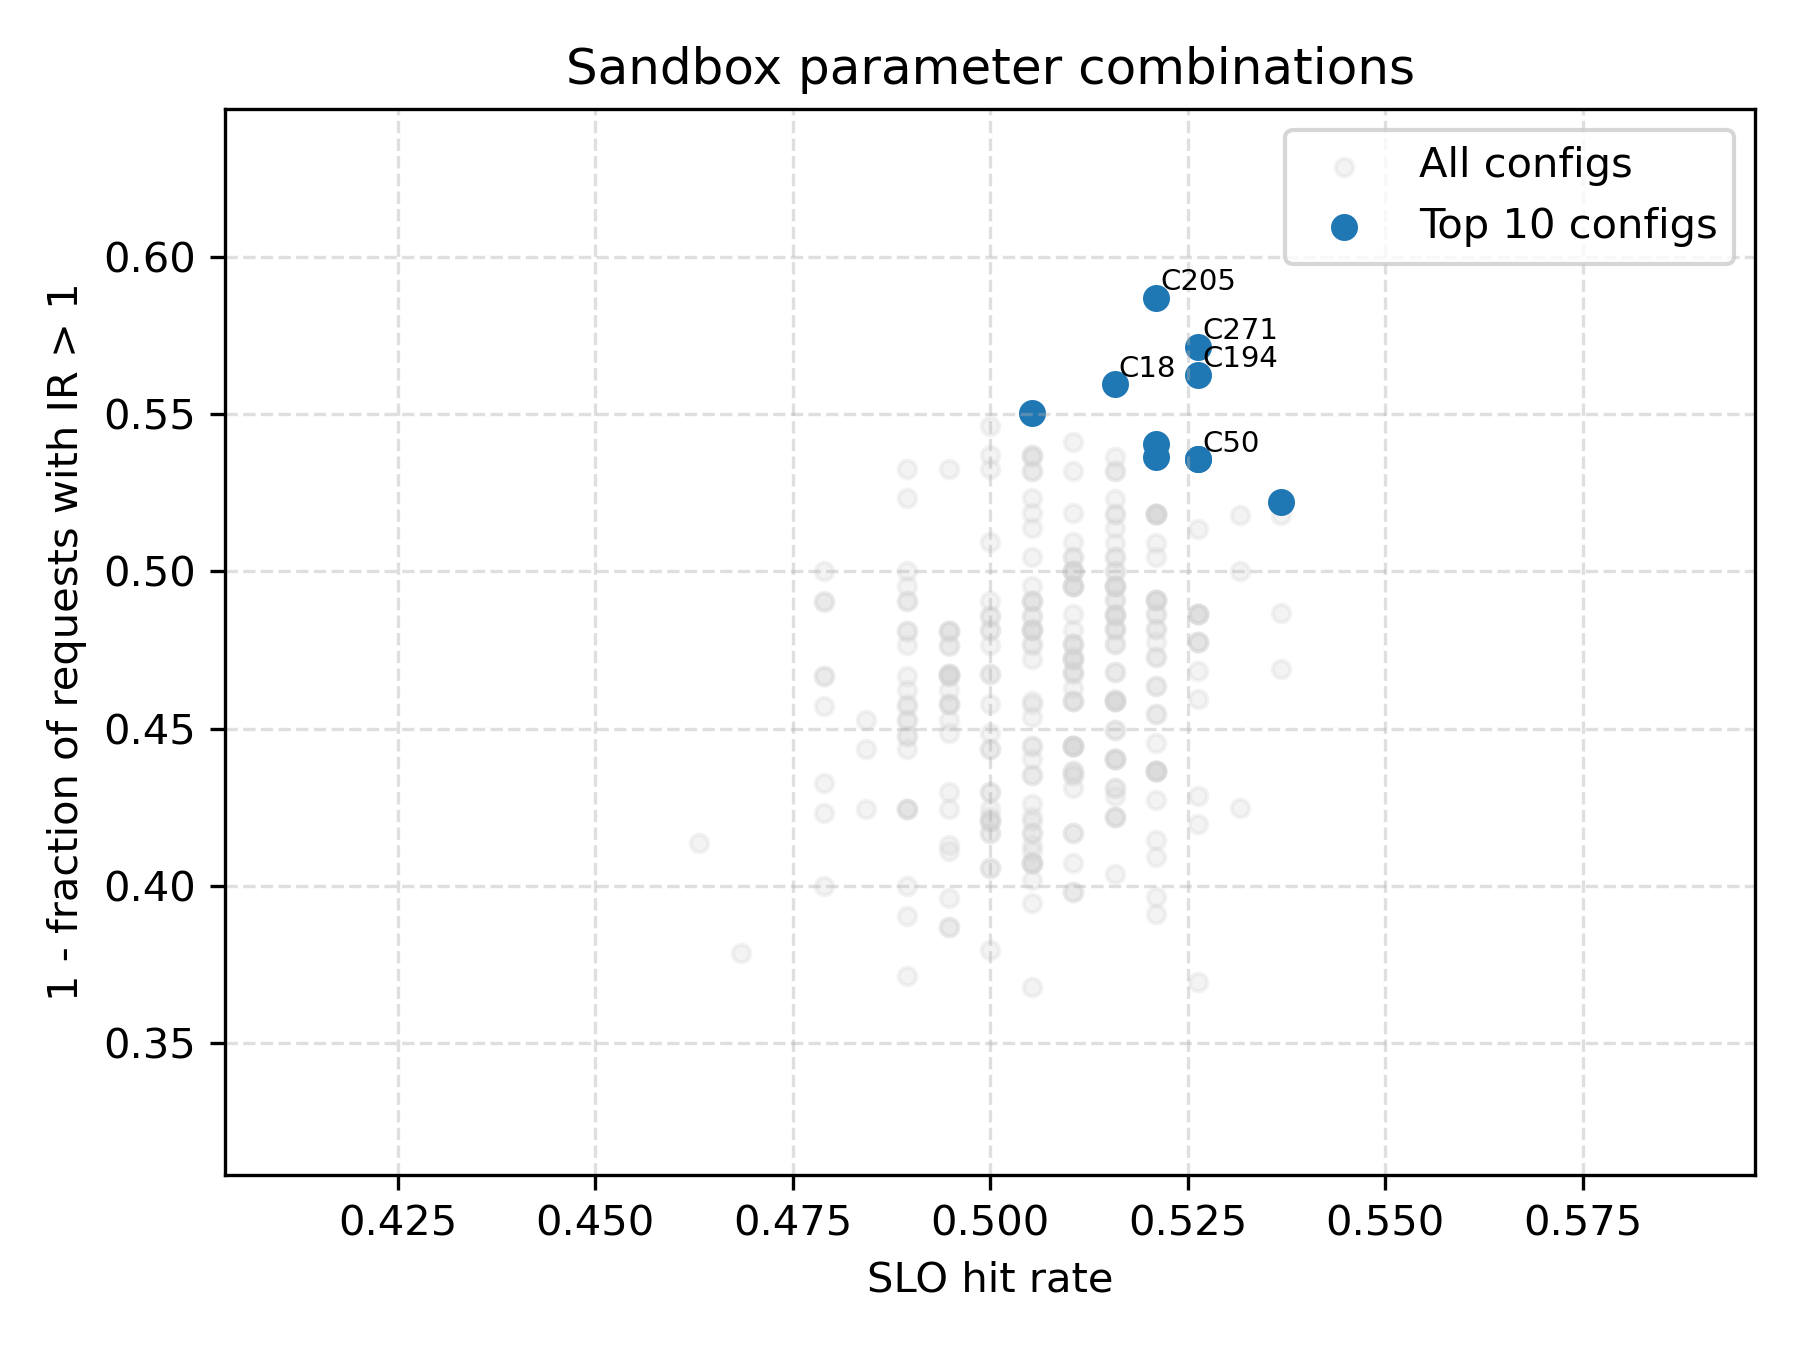
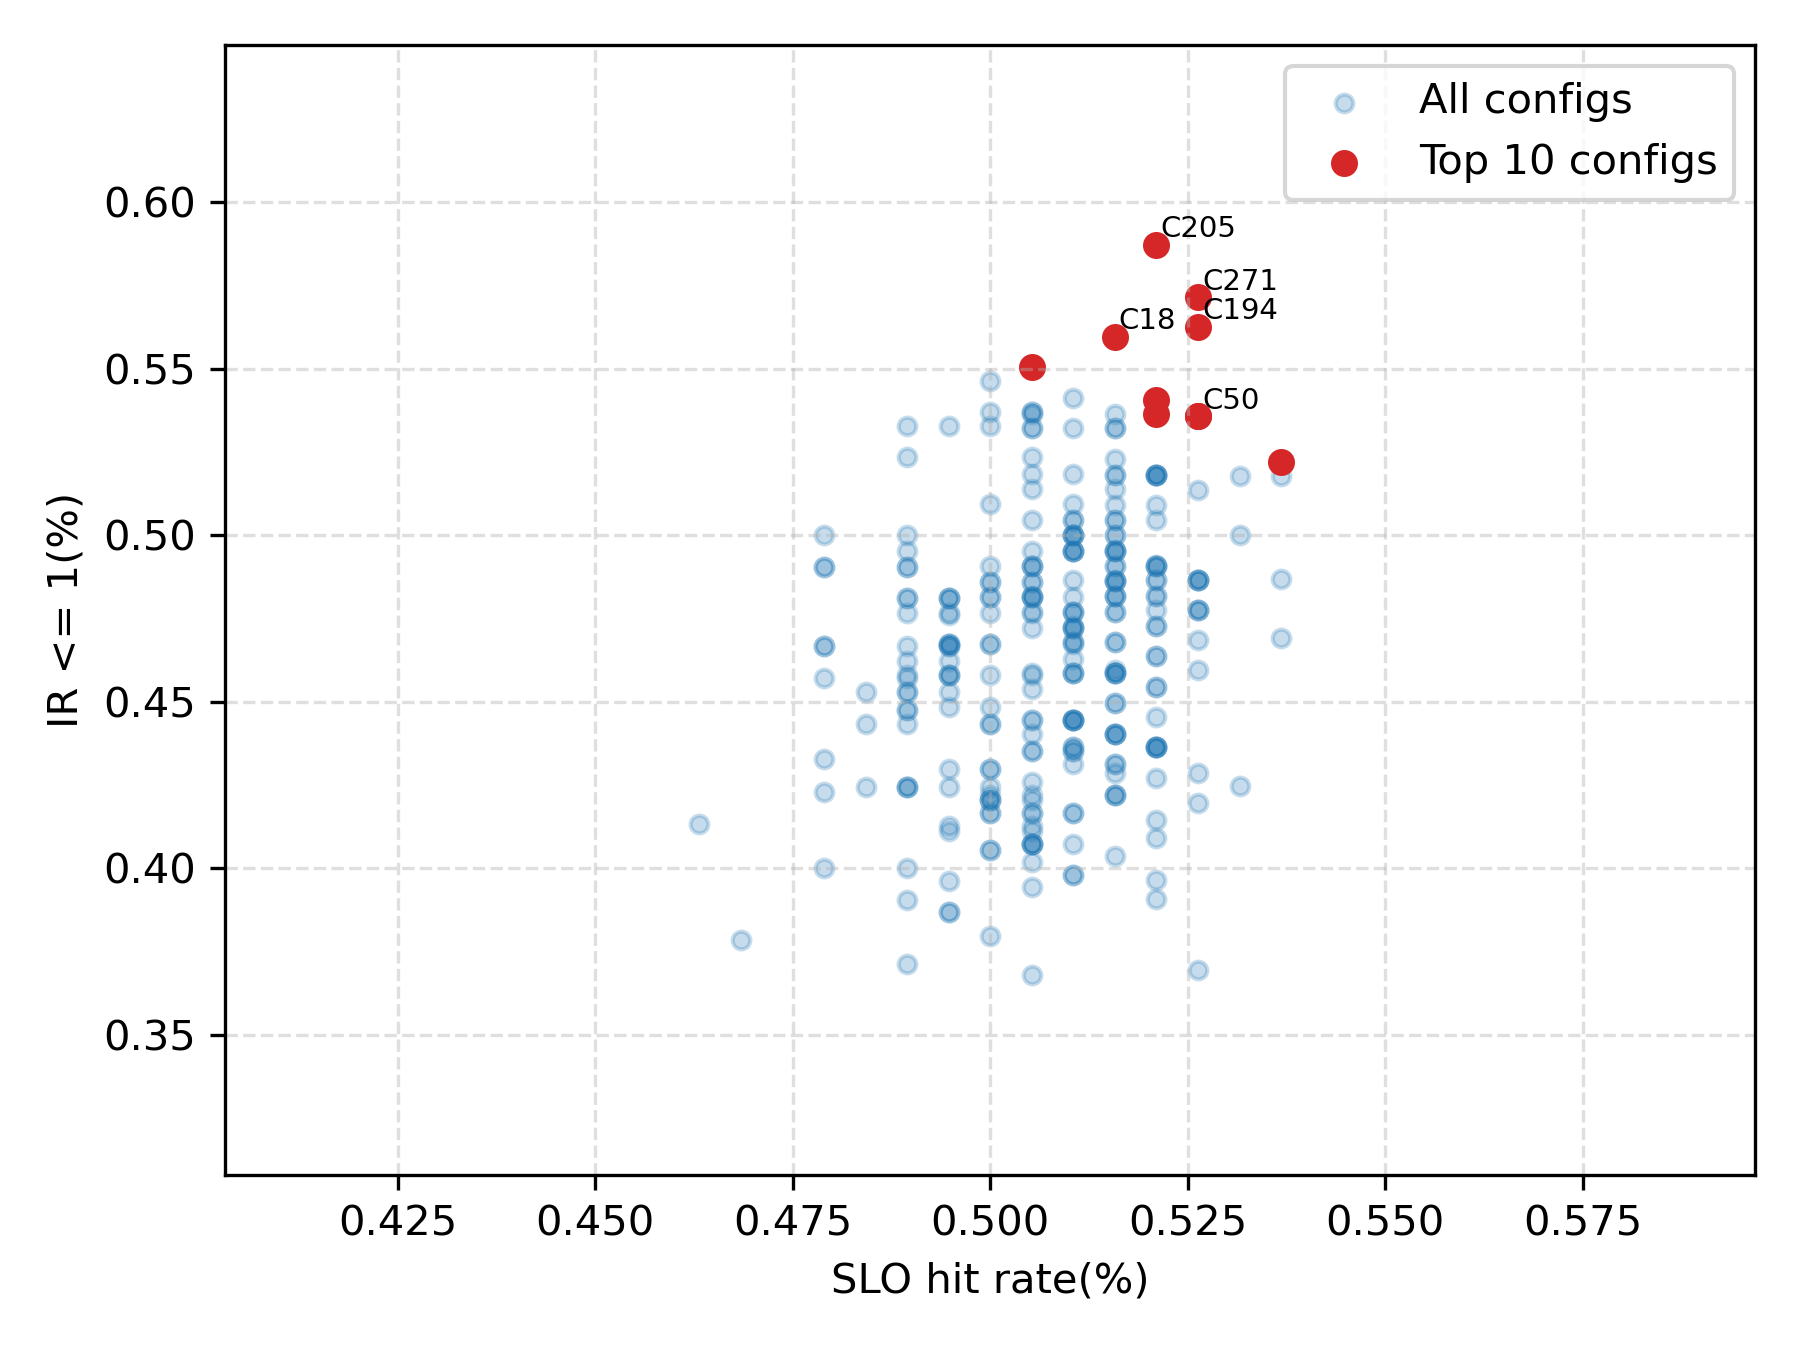
更新图例

diff --git a/reports/sandbox_tuning_v1/plot.py b/reports/sandbox_tuning_v1/plot.py
@@ -36,7 +36,7 @@ plt.scatter(
     df["ir_good"],
     alpha=0.25,
     s=18,
-    color="lightgray",
+    color="tab:blue",
     label="All configs",
 )
 
@@ -44,7 +44,7 @@ plt.scatter(
 plt.scatter(
     best["slo_rate"],
     best["ir_good"],
-    color="tab:blue",
+    color="tab:red",
     s=30,
     label=f"Top {topk} configs",
 )
@@ -60,9 +60,9 @@ for _, row in best.head(top_annotate).iterrows():
         va="bottom"
     )
 
-plt.xlabel("SLO hit rate")
-plt.ylabel("1 - fraction of requests with IR > 1")
-plt.title("Sandbox parameter combinations")
+plt.xlabel("SLO hit rate(%)")
+plt.ylabel("IR <= 1(%)")
+# plt.title("Sandbox parameter combinations")
 plt.xlim(xmin, xmax)
 plt.ylim(ymin, ymax)
 plt.grid(True, linestyle="--", alpha=0.4)
